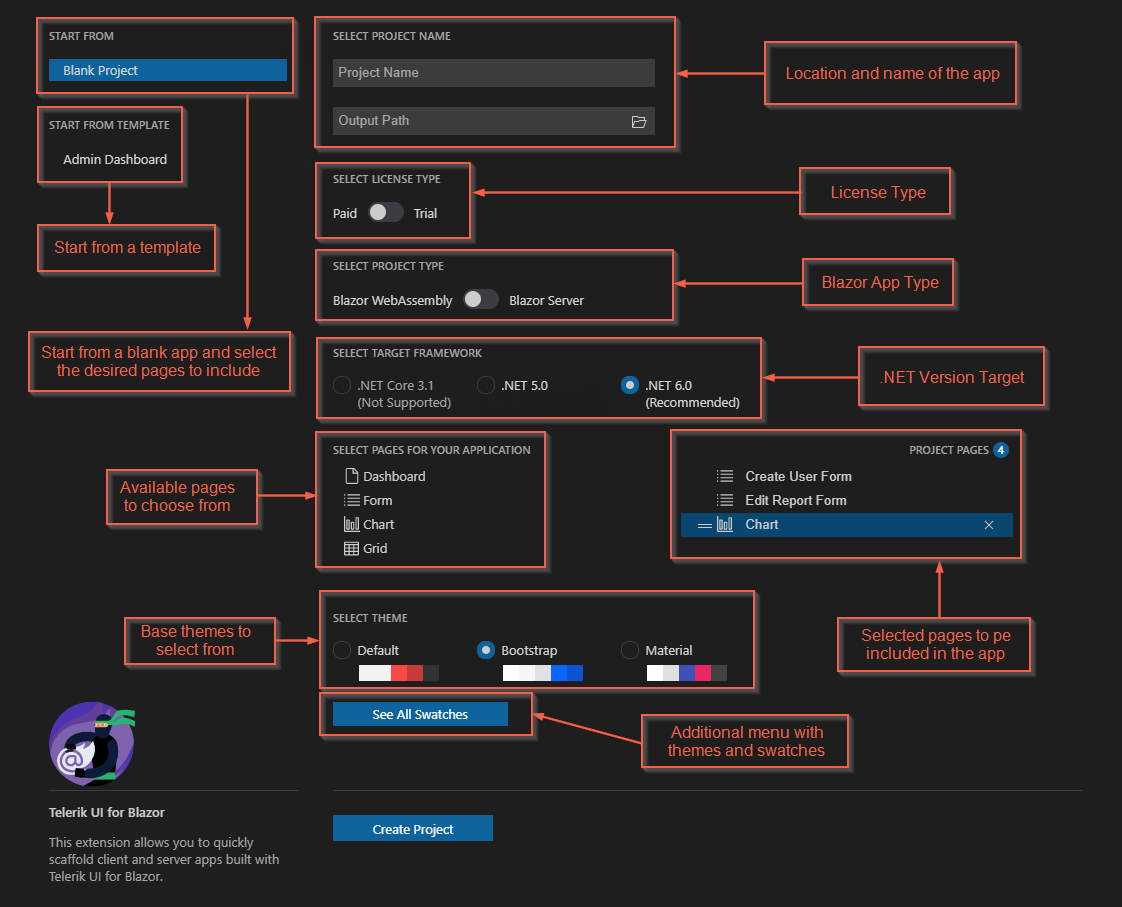
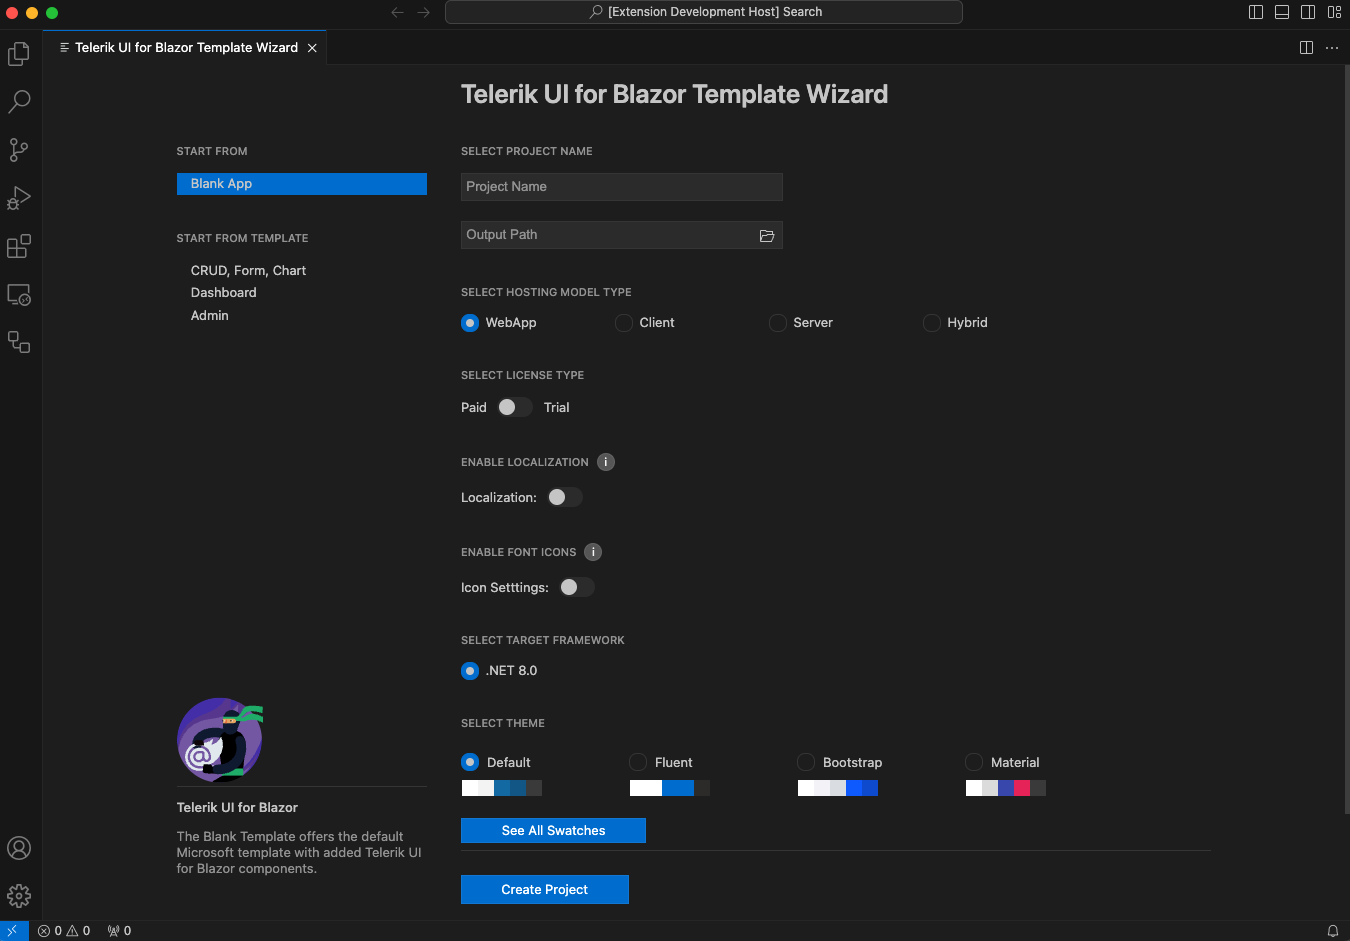
docs(vscode): update docs and screenshot

Changed region(s): [[0.0, 0.0, 0.9358, 1.0], [0.9982, 0.0617, 1.0, 0.8644], [0.9358, 0.0, 0.9982, 0.0309]]

diff --git a/getting-started/vs-code-integration/new-project-wizard.md b/getting-started/vs-code-integration/new-project-wizard.md
@@ -11,11 +11,11 @@ position: 2
 
 This article demonstrates how to use the Telerik Extension for Visual Studio Code to create a new project that is pre-configured for the Progress&reg; Telerik&reg; UI for Blazor components.
 
-## Get the Extension
+## Getting the Extension
 
 To use the **Telerik UI for Blazor Template Wizard**, install the Telerik UI for Blazor Visual Studio Code Extension. @[template](/_contentTemplates/common/general-info.md#vs-code-x-download)
 
-## Start the Wizard
+## Starting the Wizard
 
 To create a Telerik-enabled Blazor project:
 
@@ -25,19 +25,26 @@ To create a Telerik-enabled Blazor project:
 
 1. Type/Select `Telerik UI for Blazor Template Wizard: Launch` and press `Enter` to launch the extension.
 
-## Configure the Project
+## Creating the Project
 
 The **Create New Project** wizard provides two options to start you project:
 
 * **Start from Blank Project** - allows you to create a blank project that is pre-configured for the Progress® Telerik® UI for Blazor components. You can select and add sample pages to get started (a Grid with CRUD operations form a service, a Form, Charts).
 
-* **Start from a Template** - the wizard provides an Admin Dashboard Template - a fully functional sample app that showcases some of the most popular Telerik UI for Blazor components, such as Grid, TileLayout, Form, Charts, Gauges, etc. in a real world scenario.
+* **Start from a Template** - the wizard provides a set of predefined project templates:
+    * **CRUD, Form, Chart**&mdash;A small app that showcases the Telerik UI Data Grid, Chart, and forms validation. The Grid also uses a basic CRUD service which is a common pattern for data updates in real applications.
+    * **Dashboard**&mdash;A basic dashboard layout that uses the TileLayout component for customizable dashboards, and showcases several ways individual blocks (tiles) can fetch data.
+    * **Admin**&mdash;A small app that shows a dashboard for admin. The app uses some of the main Telerik UI components like the [Data Grid]({%slug grid-overview%}), [Chart]({%slug components/chart/overview%}), [TileLayout]({%slug tilelayout-overview%}), [Form]({%slug form-overview%}), and more.
 
->caption The wizard allows you to configure the following options:
+## Configuring the Project
+
+The wizard allows you to configure the following options:
 
 * Location and name for your app.
-* Your Telerik license (trial or commercial, depending on what you have).
-* A WebAssembly or Server-Side Blazor app.
+* Hosting model type - WebApp, WebAssembly, Server-Side Blazor or hybrid Blazor MAUI app.
+* Your Telerik license (trial or commercial, depending on what you have). 
+* Whether to use localization in the project or not.
+* Whether to use font icons in the project or not.
 * The .NET version you want to use.
 * The Telerik UI for Blazor version.
 * Sample pages that you can add to get started (available for `Start from Blank Project` option).
@@ -52,14 +59,3 @@ The **Create New Project** wizard provides two options to start you project:
 ![VS code wizard overview](images/vs-code-swatches-menu.png)
 
 @[template](/_contentTemplates/common/general-info.md#vs-code-nuget-note)
-
-## Run the Project
-
-Open the project, and then run it:
-
-1. Open the Terminal and navigate to the `Server` project folder. For a Server-side project, this is the folder with the project name. For a WASM project, this is the `Server` folder.
-
-1. Execute `dotnet run` and navigate your browser to the link you see in the console output.
-
-You now have a Blazor SPA app running!
-
